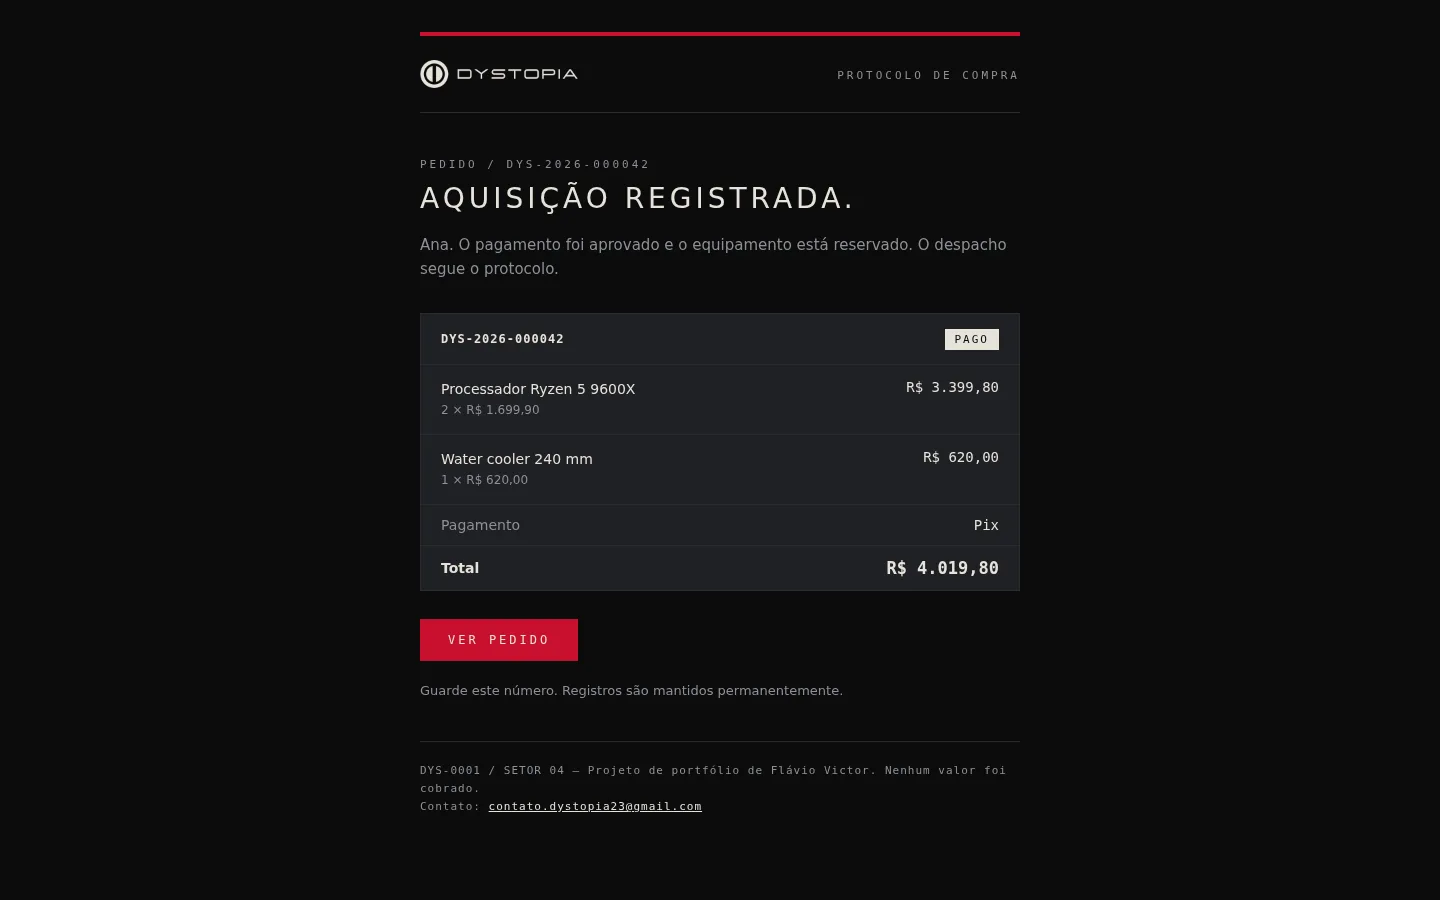
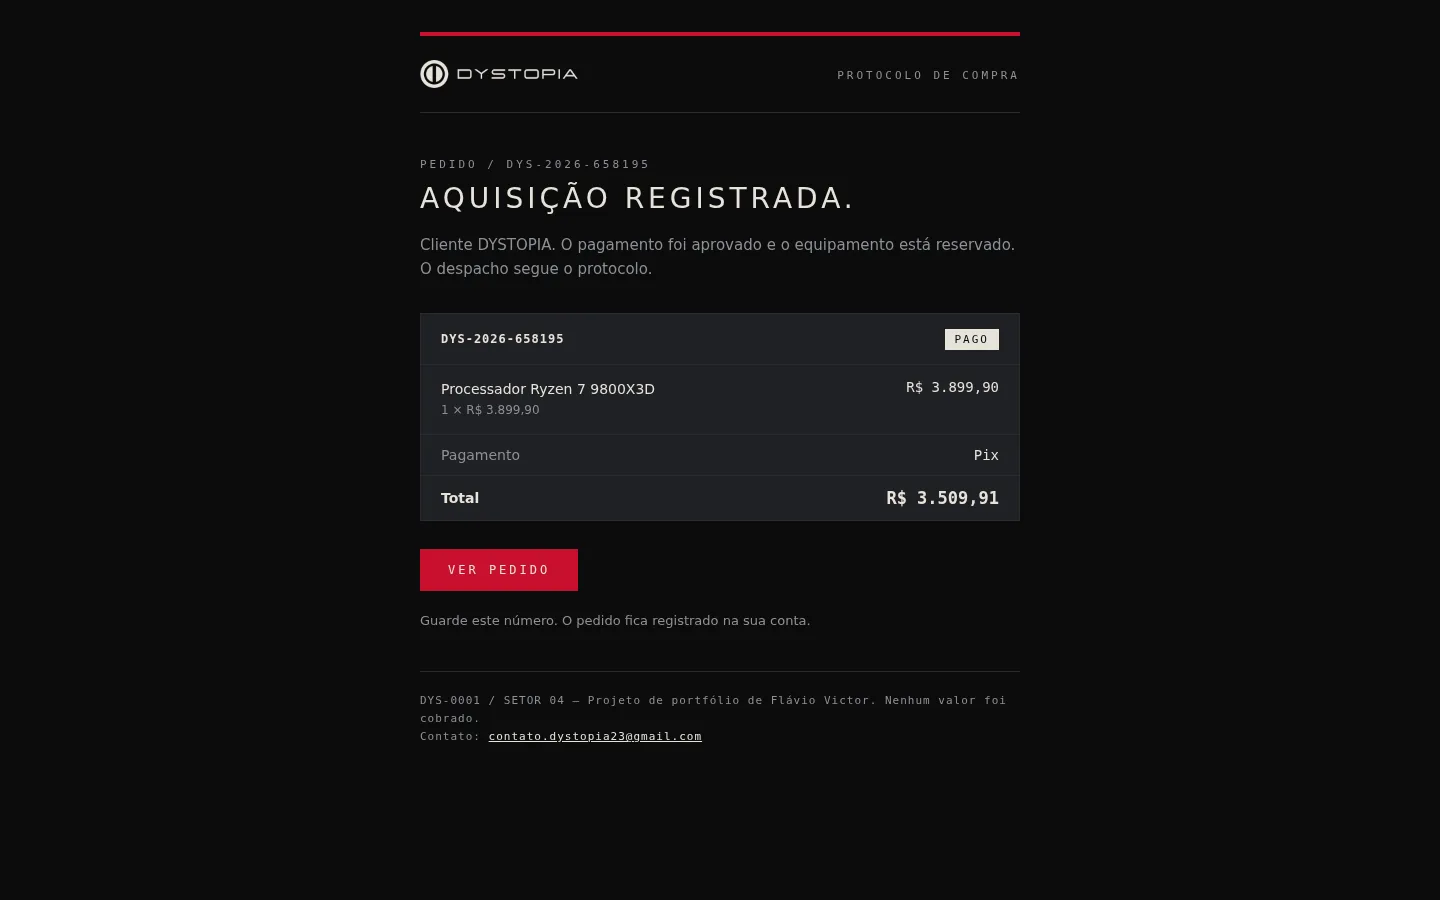
docs: refazer todos os prints do README
Os 12 prints eram de antes de mudanças na vitrine — a home, por exemplo, ainda
mostrava um bloco de estatísticas que saiu do lugar do letreiro.

Todos foram tirados de novo contra um banco só com o seed, no mesmo
enquadramento de antes (1440×900; celular em 390×844 a 2x), com as telas
montadas pelo fluxo real da loja num navegador: uma compra aprovada com cupom,
uma recusada e uma com o gateway instável. É isso que o painel de orquestração
mostra agora — 2 de 3 concluídas, uma retentativa no pagamento, DLQ zerada.

O e-mail é o template do projeto (`orderConfirmationEmail`) com os dados reais
do pedido aprovado; o do assistente é uma conversa real com o modelo no site
publicado, perguntando por placa de vídeo e recebendo o catálogo com links.

A nota abaixo das telas passa a dizer quais são as três compras, que é o que
explica os números do painel.

Changed region(s): [[0.2812, 0.4978, 0.7188, 0.9022], [0.2812, 0.2489, 0.7188, 0.3111]]

diff --git a/README.md b/README.md
@@ -78,9 +78,12 @@ responde (aprovar, recusar, instável, fora do ar) para ver a saga reagir.
 | ![Admin](docs/screenshots/admin-dashboard.webp) | ![Celular](docs/screenshots/mobile-home.webp) |
 
 Os prints são gerados contra um banco populado só pelo seed, com pedidos feitos
-pelo próprio fluxo da loja num navegador de verdade (Playwright) — o recusado
-usa o gateway simulado (`ALLOW_CHECKOUT_SIMULATION`). O do assistente é uma
-conversa real com o modelo, no site publicado.
+pelo próprio fluxo da loja num navegador de verdade (Playwright): uma compra
+aprovada com cupom, uma recusada e uma com o gateway instável — por isso o
+painel de orquestração mostra 2 de 3 concluídas e uma retentativa no passo de
+pagamento. Quem escolhe a resposta do gateway é o modo demonstração
+(`ALLOW_CHECKOUT_SIMULATION`). O do assistente é uma conversa real com o
+modelo, no site publicado.
 
 ## Arquitetura
 
